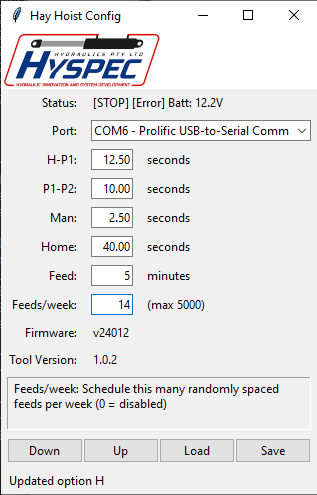
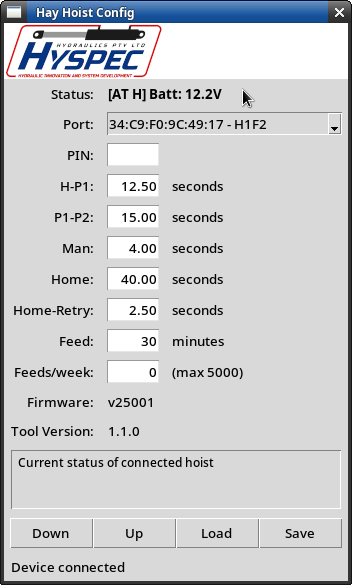
Update documentation for v25001

diff --git a/README.md b/README.md
@@ -26,9 +26,10 @@ after a programmable duration without input.
 
 ### Scheduled Feeding
 
-If a number of feeds per day is specified, the hoist will lower
+If a number of feeds per week is specified, the hoist will lower
 from the home position to P1 after a randomly chosen interval,
-roughly "feeds/day" times a day.
+roughly "feeds/week" times a week and provided there is enough
+charge in the battery to retract.
 
 The hoist will remain at P1 until feed time minutes have elapsed, 
 then retract to the home position. Manual operation "down" or
@@ -55,6 +56,9 @@ Errors and exceptions may be triggered by the following conditions:
    - Spurious Sensor: In the case of a spurious triggering of
      the home sensor, an error condition is flagged and the
      motor is stopped.
+   - Not at Home: If the home sensor is prematurely
+     triggered, the hoist will attempt to continue retraction
+     after Home-Retry seconds.
    - Sensor Failure: If the home sensor fails "open", or if the
      state logic is out of sync, the hoist will not react to
      up (raise) commands. If the sensor fails "closed", and max
@@ -73,19 +77,23 @@ Errors and exceptions may be triggered by the following conditions:
 Connect RS-232 serial adapter to J4 (console)
 and open a terminal at 19200 baud, 8n1.
 
+Enter 'p' followed by pin number and enter to enable
+console.
+
 Triggers, state changes and errors will
 be displayed.
 
 Enter '?' to display available commands:
 
 	Commands:
-	        1       H-P1 time (0.01s)
-	        2       P1-P2 time
-	        m       Man time
-	        h       H time
-	        f       Feed time (min)
-	        n       Feeds/day (0=off)
-	        v       Show current values
+	        1       H-P1 (0.01s)
+	        2       P1-P2 (0.01s)
+	        m       Man (0.01s)
+	        h       H (0.01s)
+	        r       H-Retry (0.01s)
+	        f       Feed (minutes)
+	        n       Feeds/week (0=off)
+	        v       Show values
 	        s       Status
 	        d       Lower
 	        u       Raise
@@ -93,8 +101,8 @@ Enter '?' to display available commands:
 Configuration parameters are adjusted
 by entering the command key followed by
 an updated value and then enter.
-Time values 1,2,m and h are set in units of 0.01s.
-Feeding time is in minutes.
+Time values 1,2,m,h and r are set in units of 0.01s.
+Feeding time f is in minutes.
 
 
 ## Connectors
@@ -105,8 +113,8 @@ J1:1 |  | "S5" Auxiliary I/O (unused)
 J1:2 |  | "GND"
 J1:3 |  | "S6" Auxiliary I/O (unused)
 J1:4 |  | "GND"
-N/C | C3:B | Motor + (blue/red)
-N/C | C3:C | Motor - (yellow/black)
+N/C | C3:B | Motor + (blue/black)
+N/C | C3:C | Motor - (yellow/red)
 J2:1 | C4:D | "+12V" Battery + (red)
 J2:2 | C4:A | "0V" Battery - (black)
 J3:1 |  | ICSP MISO
@@ -147,6 +155,9 @@ J6:8 | M:Gnd | "GND" Controller ground (black)
 
 ### Version Summaries
 
+   - 25001: Version 2
+      - include Home Retry option & logic
+      - add trivial plaintext 'passkey' to protect serial console
    - 24012: Version 1, cosmetic updates for GUI tool, October 2024
    - 24011: Version 0, initial release September 2024
 

diff --git a/util/hhconfig/README.md b/util/hhconfig/README.md
@@ -5,7 +5,8 @@
 ## Usage
 
 Connect serial adapter to computer, launch hhconfig
-utility. Select comport if required, then attach serial
+utility. Enter device pin number if applicable,
+select comport if required, then attach serial
 cable to hay hoist console port.
 
 Current status is displayed on the top line. Use
@@ -18,7 +19,7 @@ from/to a JSON text file.
 Multiple units can be programmed using the following
 steps:
 
-   - Open hhconfig utility and attach a serial adapter
+   - Open hhconfig utility, enter pin and attach a serial adapter
    - Read desired settings from a saved configuration file
    - For each unit to be updated:
      - Plug serial cable onto console port

diff --git a/assembly/README.md b/assembly/README.md
@@ -298,3 +298,6 @@ Prepare mains extension lead:
       - A position 1
       - N position 2
    - tighten backshell and lock nut
+
+Connect to power and box, then adjust Vo to 13.5V
+Confirm Battery reading in config tool between 13.3 and 13.6V
